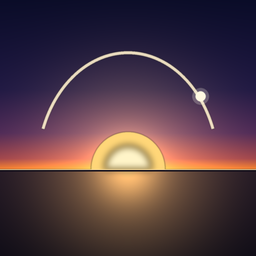
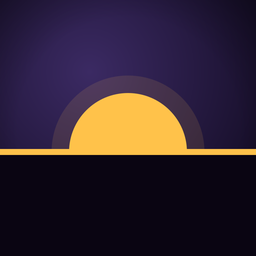
site: 12 basin ikonunun 8'i magazadaki ikondan farkli bir tasarimdi; hepsi App Store'da canli olan ikondan yeniden uretildi + olcen kapi eklendi

diff --git a/ci/basin_ikon_kapisi.py b/ci/basin_ikon_kapisi.py
@@ -1,0 +1,92 @@
+#!/usr/bin/env python3
+# -*- coding: utf-8 -*-
+"""
+=====================================================================
+ BASIN IKONU KAPISI
+
+ 28 Agustos 2026'da olculdu: sitenin ana sayfasindaki 12 basin
+ gorselinin 8'i, App Store'da YAYINDA OLAN ikondan tamamen farkli bir
+ tasarim tasiyordu. Depodaki ikon dogruydu, gonderilen yapi dogruydu,
+ magaza sayfasi dogruydu — YANLIS OLAN TEK YER halka acik siteydi ve
+ kimse fark etmemisti, cunku hicbir kapi oraya bakmiyordu.
+
+     "Depodaki dogru, yayindakini duzeltmez."
+
+ Bu kapi her basin gorselini, o uygulamanin MAGAZADA CANLI OLAN
+ ikonuyla karsilastiriyor. Kaynak depo degil, magazanin kendisi:
+ kullanicinin gordugu ikon orada.
+
+ ESIK: 10/255. Ayni ikonun iki yeniden kodlamasi ~1-2 fark veriyor;
+ farkli tasarimlar 28-72 arasinda olculdu. Esik ikisinin arasinda ve
+ ikisinden de uzak.
+=====================================================================
+"""
+import io, json, pathlib, sys, urllib.request
+from PIL import Image
+import numpy as np
+
+sys.path.insert(0, str(pathlib.Path(__file__).resolve().parent))
+from _asc import api
+
+ESIK = 10.0
+UYGULAMALAR = {
+    "daylume": 6796813768, "forgn": 6761314575, "lumezone": 6796814594,
+    "nestria": 6799198327, "plasticos": 6799756600, "poywx": 6777477818,
+    "rodewatch": 6796814335, "skry": 6790419436, "stemmata": 6805161453,
+    "trailhome": 6796813984, "vagotakt": 6796814920, "voxwhisper": 6796815308,
+}
+
+def canli(app_id, px=256):
+    s, b = api("/v1/apps/%d/appStoreVersions?limit=8&include=build" % app_id)
+    tercih = None
+    for v in b.get("data", []):
+        st = v["attributes"]["appStoreState"]
+        bid = (v["relationships"].get("build", {}).get("data") or {}).get("id")
+        if bid and st == "READY_FOR_SALE":
+            tercih = bid; break
+        if bid and tercih is None:
+            tercih = bid
+    if not tercih: return None
+    s2, b2 = api("/v1/builds/%s" % tercih)
+    t = b2["data"]["attributes"].get("iconAssetToken")
+    if not t: return None
+    u = t["templateUrl"].replace("{w}", str(px)).replace("{h}", str(px)).replace("{f}", "png")
+    return Image.open(io.BytesIO(urllib.request.urlopen(u, timeout=60).read())).convert("RGB")
+
+def fark(a, b, n=128):
+    return float(np.abs(np.asarray(a.resize((n, n), Image.LANCZOS), float) -
+                        np.asarray(b.resize((n, n), Image.LANCZOS), float)).mean())
+
+def main(kok):
+    kok = pathlib.Path(kok)
+    if not kok.is_dir():
+        print("  !! basin klasoru yok: %s" % kok); return 4
+    kirmizi, olculen = [], 0
+    for ad, aid in sorted(UYGULAMALAR.items()):
+        p = kok / ("%s.png" % ad)
+        if not p.exists():
+            print("  !! %s.png YOK — sitede kullanilan bir gorsel eksik" % ad)
+            kirmizi.append((ad, None)); continue
+        c = canli(aid)
+        if c is None:
+            print("  !! %-11s magazadaki ikon okunamadi — OLCULEMEDI" % ad)
+            kirmizi.append((ad, None)); continue
+        d = fark(c, Image.open(p).convert("RGB"))
+        olculen += 1
+        if d >= ESIK:
+            kirmizi.append((ad, d))
+            print("  KIRMIZI %-11s fark %7.3f" % (ad, d))
+        else:
+            print("  temiz   %-11s fark %7.3f" % (ad, d))
+    # BOS KUME YESIL DEGILDIR: hicbir sey olculmediyse kapi dusmeli.
+    if olculen == 0:
+        print("  !! hicbir gorsel olculemedi — kapi olcmuyor"); return 4
+    print()
+    if kirmizi:
+        print("  %d gorsel magazadaki ikonla ayni DEGIL." % len(kirmizi))
+        return 1
+    print("  %d basin gorseli magazadaki canli ikonla ayni." % olculen)
+    return 0
+
+if __name__ == "__main__":
+    sys.exit(main(sys.argv[1] if len(sys.argv) > 1 else "press"))
